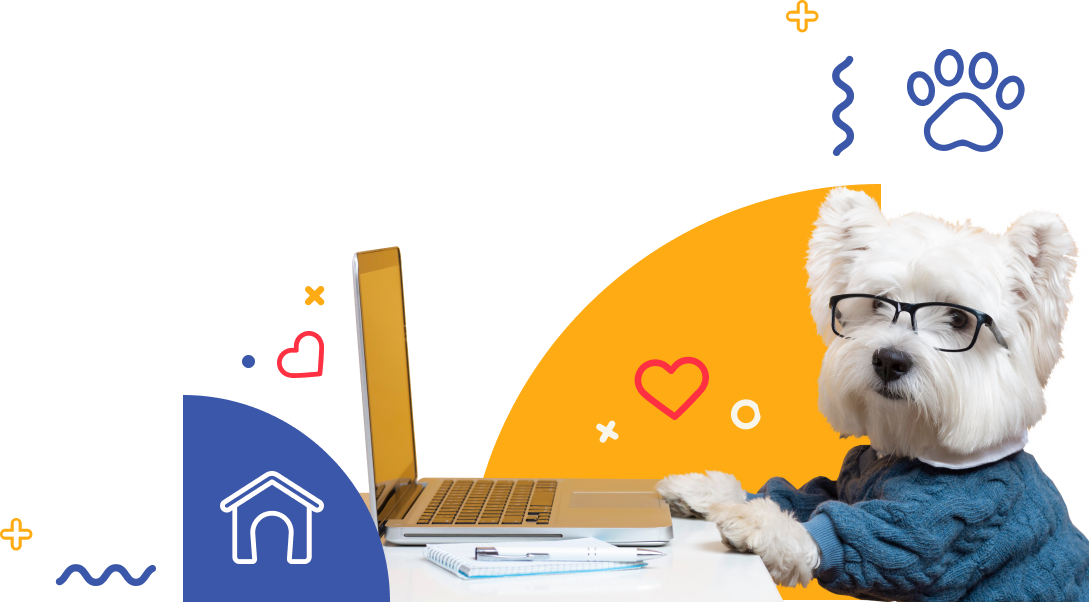
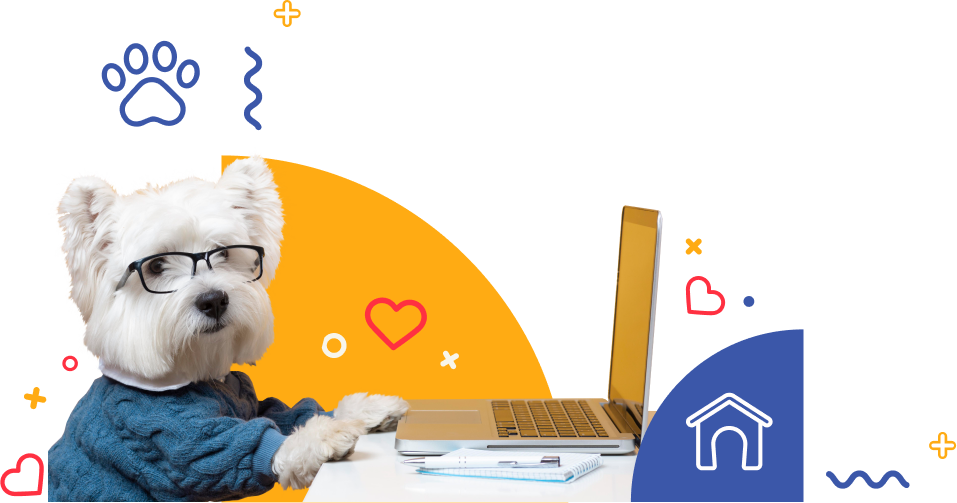
feature/frontend/modificatios inicio martes

diff --git a/client/src/pages/Home/Home.jsx b/client/src/pages/Home/Home.jsx
@@ -157,9 +157,6 @@ const Home = () => {
       <Container>
         <Grid container spacing={2} alignItems="center">
           <Grid item md={6}>
-            <img src={banner4} alt='banner home' className={style.bannerContent} />
-          </Grid>
-          <Grid item md={6}>
             <Typography component="h1" variant="h2" sx={{color:'#FF3041', textTransform:'uppercase', fontWeight:'700'}}>
               haz tu donación
             </Typography>
@@ -168,12 +165,19 @@ const Home = () => {
             </Typography>
             <Button variant="contained" color='info' size="large" sx={{borderRadius:'20px'}} onClick={(e) => handlerDonar(e)}>DONA AHORA!</Button>
           </Grid>
+          <Grid item md={6}>
+            <img src={banner4} alt='banner home' className={style.bannerContent} />
+          </Grid>
         </Grid>
       </Container>
       <Box>
         <Container>
           <Grid container marginTop={'80px'}>
-            <Grid item md={4} sx={{marginTop:'20px'}}>
+          
+            <Grid item md={6} sx={{marginBottom:'-10px'}}>
+            </Grid>
+
+            <Grid item md={6} sx={{marginTop:'20px'}}>
               <Typography component="h1" variant="h2" sx={{color:'#FF3041', textTransform:'uppercase', fontWeight:'700'}}>
               más información
               </Typography>
@@ -182,9 +186,10 @@ const Home = () => {
               </Typography>
               <Button variant="contained" color='info' size="large" sx={{borderRadius:'20px'}} onClick={(e) => handlerContacto(e)}>contacto</Button>
             </Grid>
-            <Grid item md={8} sx={{marginBottom:'-10px'}}>
-              <img src={banner5} alt='fondo perro'/>
+            <Grid item md={12} sx={{marginBottom:'-10px'}}>
+              <img src={banner5} alt='fondo perro' className={style.imageInfo}/>
             </Grid>
+            
           </Grid>
 
         </Container>

diff --git a/client/src/pages/Donations/Donations.jsx b/client/src/pages/Donations/Donations.jsx
@@ -115,7 +115,7 @@ const Donations = () => {
     <Container>
     <Grid item md={12}  sx={{marginBottom:'-10px'}}>
       <img src={imgDonaciones} alt='fondo donaciones' className={style.imageD}/>
-        </Grid>
+      </Grid>
     </Container>
   </Box>
 

diff --git a/client/src/components/Footer/Footer.module.css b/client/src/components/Footer/Footer.module.css
@@ -1,7 +1,7 @@
 .bg-footer {
     padding: 20px 0;
     background-color: #FF3041;
-    border-radius: 0px 200px 0px 0px;
+    border-radius: 200px 0px 0px 0px;
     
 }
 

diff --git a/client/src/pages/Home/Home.module.css b/client/src/pages/Home/Home.module.css
@@ -17,3 +17,9 @@
 .bannerContent{
     padding:0px;
 }
+
+.imageInfo{
+    margin-top: -100px;
+    width: 800px;
+   
+}
